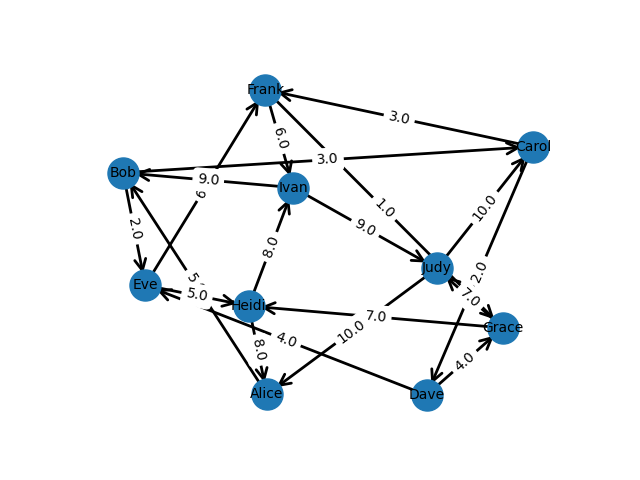
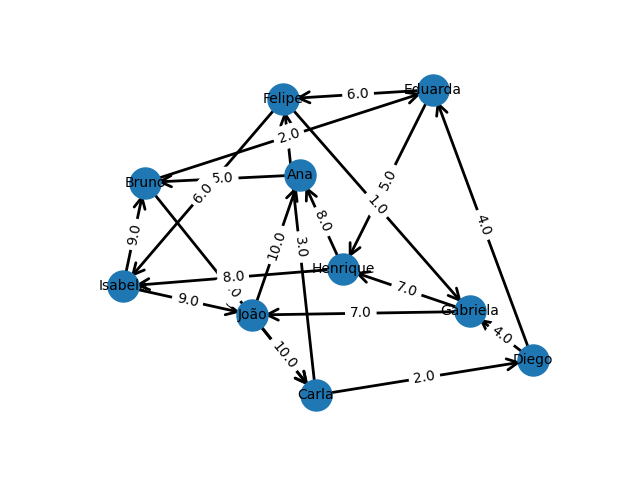
fix

Changed region(s): [[0.1562, 0.1562, 0.875, 0.875]]

diff --git a/grafo_rede_social.py b/grafo_rede_social.py
@@ -351,24 +351,22 @@ if __name__ == "__main__":
         grafo_existe = False
 
     if not grafo_existe:
-        # Adicionando 10 usuários
         usuarios = [
-            Usuario(1, "Alice", 30, 50),
-            Usuario(2, "Bob", 5, 1500),
-            Usuario(3, "Carol", 60, 20),
-            Usuario(4, "Dave", 10, 300),
-            Usuario(5, "Eve", 15, 450),
-            Usuario(6, "Frank", 25, 600),
-            Usuario(7, "Grace", 35, 700),
-            Usuario(8, "Heidi", 45, 800),
-            Usuario(9, "Ivan", 55, 900),
-            Usuario(10, "Judy", 65, 1000)
+            Usuario(1, "Ana", 30, 50),
+            Usuario(2, "Bruno", 5, 1500),
+            Usuario(3, "Carla", 60, 20),
+            Usuario(4, "Diego", 10, 300),
+            Usuario(5, "Eduarda", 15, 450),
+            Usuario(6, "Felipe", 25, 600),
+            Usuario(7, "Gabriela", 35, 700),
+            Usuario(8, "Henrique", 45, 800),
+            Usuario(9, "Isabela", 55, 900),
+            Usuario(10, "João", 65, 1000)
         ]
 
         for usuario in usuarios:
             grafo.adicionar_usuario(usuario)
 
-        # Adicionando arestas
         grafo.adicionar_aresta(1, 2, peso=5)
         grafo.adicionar_aresta(2, 3, peso=3)
         grafo.adicionar_aresta(3, 4, peso=2)
